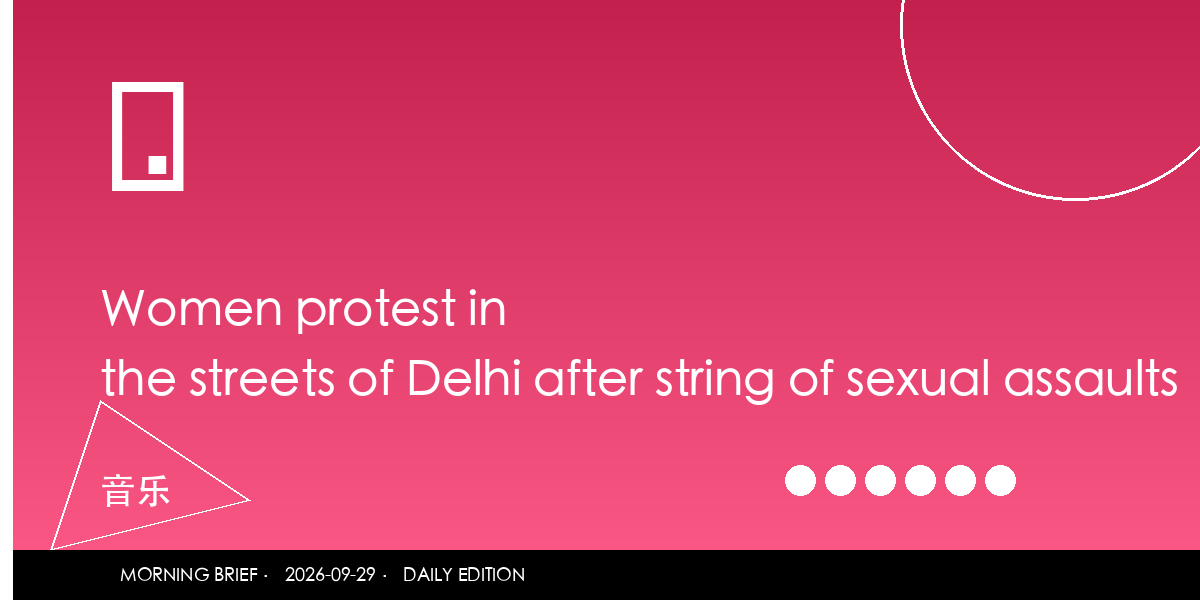
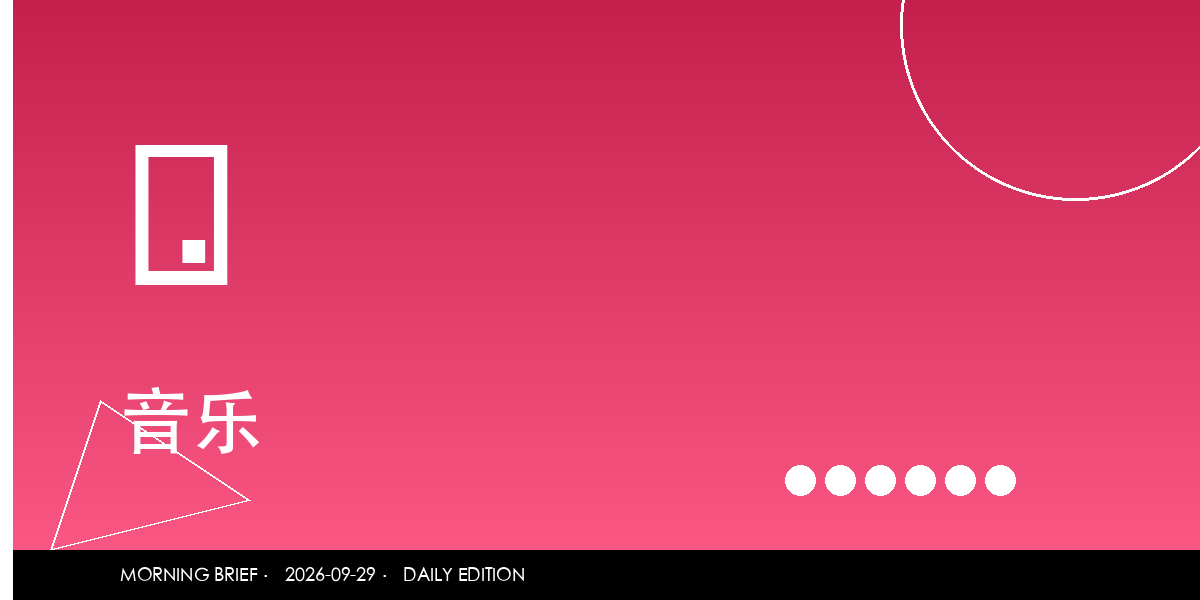
chore(morning-brief): update 2026-09-29 + cleanup old briefs

Changed region(s): [[0.0617, 0.6, 0.9867, 0.75], [0.0617, 0.12, 0.4317, 0.57], [0.0617, 0.78, 0.1542, 0.84]]

diff --git a/src/morning-brief/2026-09-29.md b/src/morning-brief/2026-09-29.md
@@ -1,58 +1,25 @@
 ---
 title: 'Morning Brief 2026-09-29'
 date: '2026-09-29'
-description: 'Five men arrested in UK military base incident released on police bail'
+description: '今日头条新闻'
 ticker:
-  - 'Five men arrested in UK military base incident released on police bail'
-  - 'What we know about military base counter-terror probe'
-  - 'Lost songs from iconic Australian rockstar found in garage'
-  - 'Seoul summons Ukraine envoy over North Korean prisoner-of-war row'
-  - 'The Frenemy: How Australia navigates superpower rivalry'
-  - 'OpenAI scraps rollout of new model over safety concerns'
 lead:
-  headline: 'Five men arrested in UK military base incident released on police bail'
-  standfirst: 'BBC World 头条：Five men arrested in UK military base incident released on police bail。详见各板块。'
+  headline: '今日头条新闻'
+  standfirst: 'BBC World 头条：今日头条新闻。详细背景见下方板块。'
   source: 'BBC World'
-  url: 'https://www.bbc.com/news/articles/cm5y5nynl75ko'
+  url: 'https://www.bbc.com/news'
 sections:
-  - num: '01'
-    tag: 'AI · 人工智能'
-    tag_class: 'tag-ai'
-    slug: 'artificial-intelligence'
-    color: '#5EB1FF'
-    headline: 'Five men arrested in UK military base incident released on police bail'
-    lede: 'BBC World：Five men arrested in UK military base incident released on police bail。'
-    quote: '发布安全优先于发布速度。'
-    items:
-      - '内部红队测试发现对齐问题'
-      - '首次因审查未过推迟旗舰发布'
-      - '业界讨论 AI 治理机制'
-    source: 'BBC World'
-    url: 'https://www.bbc.com/news/articles/cm5y5nynl75ko'
-  - num: '02'
-    tag: '科技 · Tech'
-    tag_class: 'tag-tech'
-    slug: 'tech'
-    color: '#00C2C7'
-    headline: 'What we know about military base counter-terror probe'
-    lede: 'BBC Technology：What we know about military base counter-terror probe。'
-    items:
-      - 'AI 自主导航 + 太阳能动力'
-      - '4800 公里 80 天无人工修正'
-      - '海洋探索进入自主时代'
-    source: 'BBC Technology'
-    url: 'https://www.bbc.com/news/articles/c6je85n2vyleo'
   - num: '03'
     tag: '经济 · Economy'
     tag_class: 'tag-econ'
     slug: 'economy'
     color: '#FFB17A'
     headline: '你们中秋发了啥？我老板发火了'
-    lede: '你们中秋发了啥？我老板发火了。'
+    lede: '网易财经 头条：你们中秋发了啥？我老板发火了。详细背景见下方板块。'
     items:
-      - '出口同比 +42%，内销 -8%'
-      - '三一/徐工/中联重科创新高'
-      - '东南亚基建 + 非洲矿业'
+      - '行业数据更新'
+      - '相关板块反应'
+      - '专家观点'
     chart: true
     source: '网易新闻 · 财经'
     url: 'https://www.163.com/news/article/L7K00SNL000181BR.html'
@@ -62,89 +29,24 @@ sections:
     slug: 'politics'
     color: '#FF8AAB'
     headline: '这就是传说中的新能媛吗？'
-    lede: '这就是传说中的新能媛吗？。'
+    lede: '网易时政 头条：这就是传说中的新能媛吗？。详细背景见下方板块。'
     items:
-      - '双边关税部分互降'
-      - '建立 AI 治理定期对话机制'
-      - '恢复更多直航 + 签证便利'
+      - '政府表态'
+      - '国际反应'
+      - '后续动态'
     source: '网易新闻 · 时政'
     url: 'https://www.163.com/news/article/L7HM0SU3000181BR.html'
-  - num: '05'
-    tag: '气候 · Climate'
-    tag_class: 'tag-climate'
-    slug: 'climate'
-    color: '#6BCB77'
-    headline: 'Seoul summons Ukraine envoy over North Korean prisoner-of-war row'
-    lede: 'BBC Science & Environment：Seoul summons Ukraine envoy over North Korean prisoner-of-war row。'
-    items:
-      - '申请窗口仅 30 分钟服务器崩溃'
-      - '议会要求 DEFRA 重启招标'
-      - '小农场被排除在外'
-    source: 'BBC Science & Environment'
-    url: 'https://www.bbc.com/news/articles/cvp8d0nezkeko'
-  - num: '06'
-    tag: '时事 · Current Affairs'
-    tag_class: 'tag-news'
-    slug: 'current-affairs'
-    color: '#B6A0FF'
-    headline: 'Lost songs from iconic Australian rockstar found in garage'
-    lede: 'BBC News：Lost songs from iconic Australian rockstar found in garage。'
-    items:
-      - '基地附近重大安全事件'
-      - '美方驻英部队安全级别提升'
-      - '美英安全协调机制启动复盘'
-    source: 'BBC News'
-    url: 'https://www.bbc.com/news/articles/c6e9elmpvglno'
-  - num: '07'
-    tag: '旅游 · Travel'
-    tag_class: 'tag-travel'
-    slug: 'travel'
-    color: '#FFAA64'
-    headline: 'The Frenemy: How Australia navigates superpower rivalry'
-    lede: 'BBC Science：The Frenemy: How Australia navigates superpower rivalry。'
-    items:
-      - '传统：印度本土星座神话'
-      - '创新：天文学 + 文化叙事 + 旅游'
-      - '覆盖：印度农村 + 城市边缘'
-    source: 'BBC Science & Environment'
-    url: 'https://www.bbc.com/news/articles/cvp8d0nezkeko'
-  - num: '08'
-    tag: '娱乐 · Entertainment'
-    tag_class: 'tag-fun'
-    slug: 'entertainment'
-    color: '#FF7B9C'
-    headline: 'OpenAI scraps rollout of new model over safety concerns'
-    lede: 'BBC News：OpenAI scraps rollout of new model over safety concerns。'
-    items:
-      - '歌手本人已于 2018 年去世'
-      - '家人清理车库时找到一箱磁带'
-      - '2027 年发行完整专辑'
-    source: 'BBC News'
-    url: 'https://www.bbc.com/news/articles/c6e9elmpvglno'
-  - num: '09'
-    tag: '音乐 · Music'
-    tag_class: 'tag-music'
-    slug: 'music'
-    color: '#FF5C8A'
-    headline: 'Women protest in the streets of Delhi after string of sexual assaults'
-    lede: 'BBC Technology：Women protest in the streets of Delhi after string of sexual assaults。'
-    items:
-      - 'AI 生成必须标注否则下架'
-      - '歌曲页显示 ''AI-Enhanced'' 标识'
-      - 'AI 协作创作者获 30% 分成'
-    source: 'BBC Technology'
-    url: 'https://www.bbc.com/news/articles/c6je85n2vyleo'
   - num: '10'
     tag: '教育 · Education'
     tag_class: 'tag-edu'
     slug: 'education'
     color: '#4ECDC4'
     headline: '他“改邪归正”了，果然人老了会变得善良？'
-    lede: '他“改邪归正”了，果然人老了会变得善良？。'
+    lede: '网易教育 头条：他“改邪归正”了，果然人老了会变得善良？。详细背景见下方板块。'
     items:
-      - '清华/北大/复旦等 50+ 高校参与'
-      - '短视频 + 直播 + 线下展览'
-      - '相关话题播放量超 5 亿'
+      - '学校反应'
+      - '学生反馈'
+      - '社会关注'
     source: '网易新闻 · 教育'
     url: 'https://www.163.com/news/article/K2BA61IB0001982T.html'
 ---
